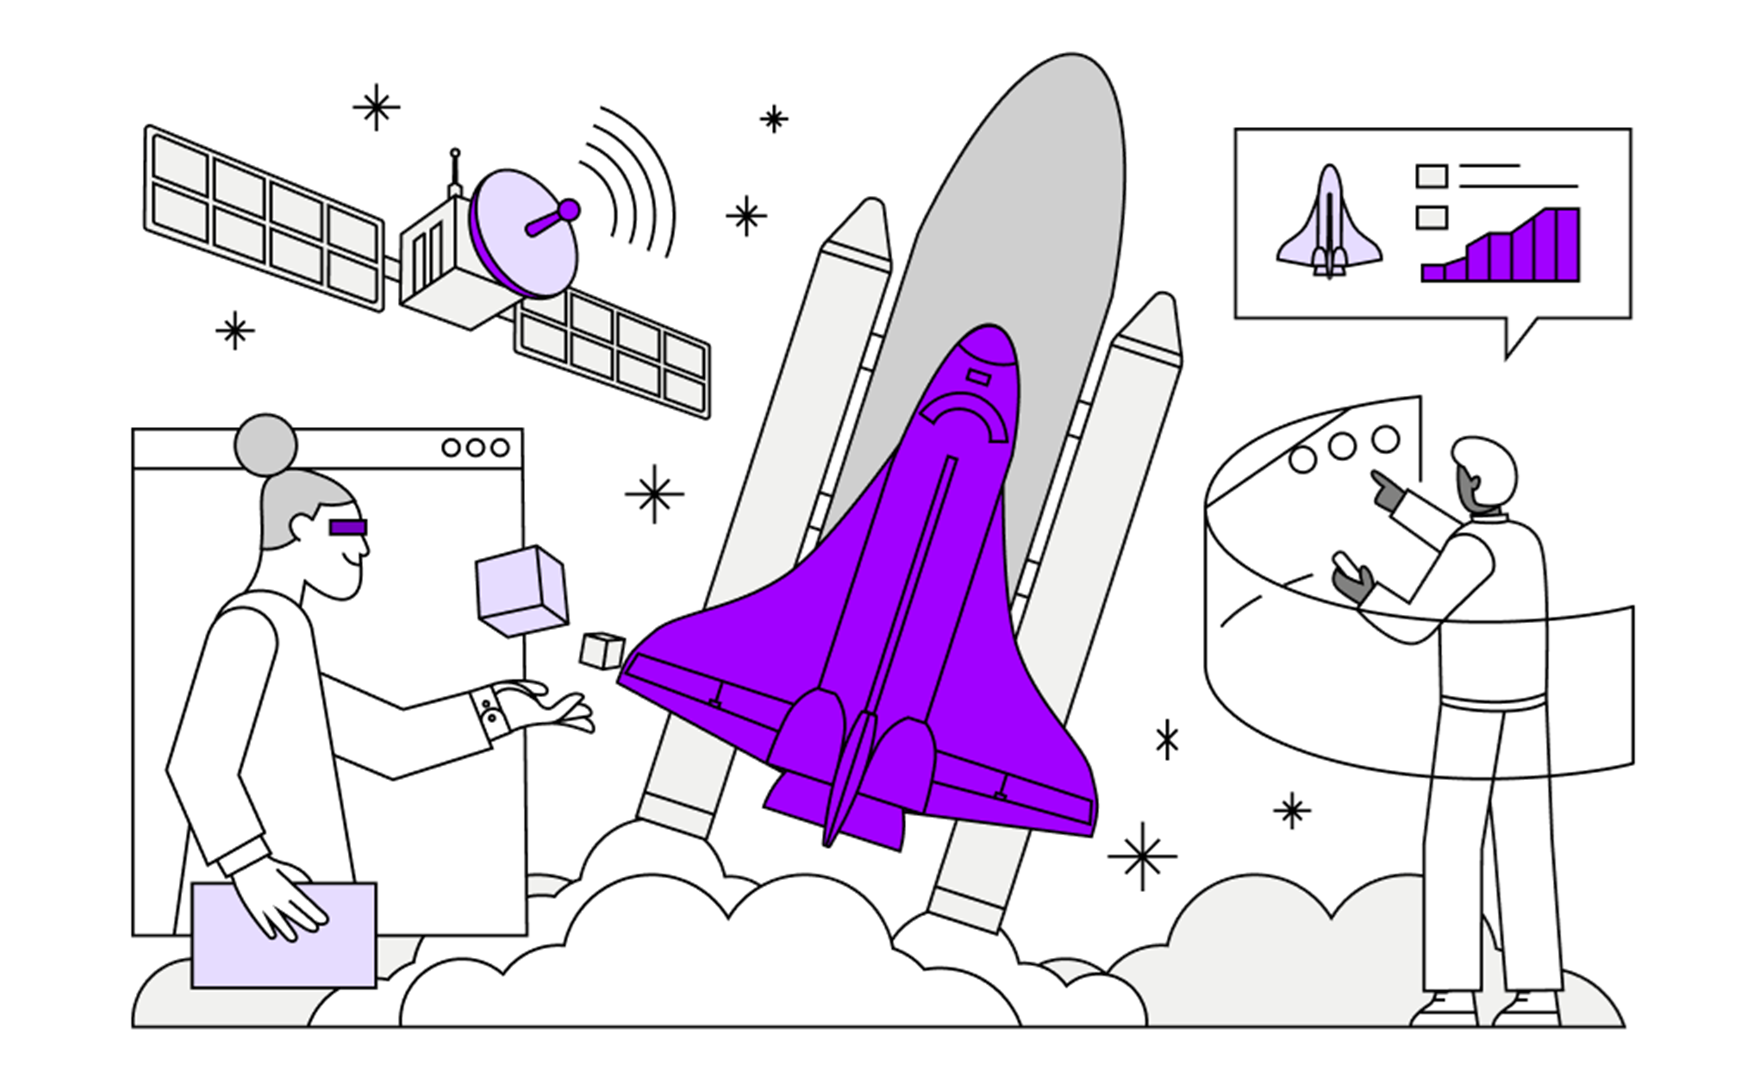
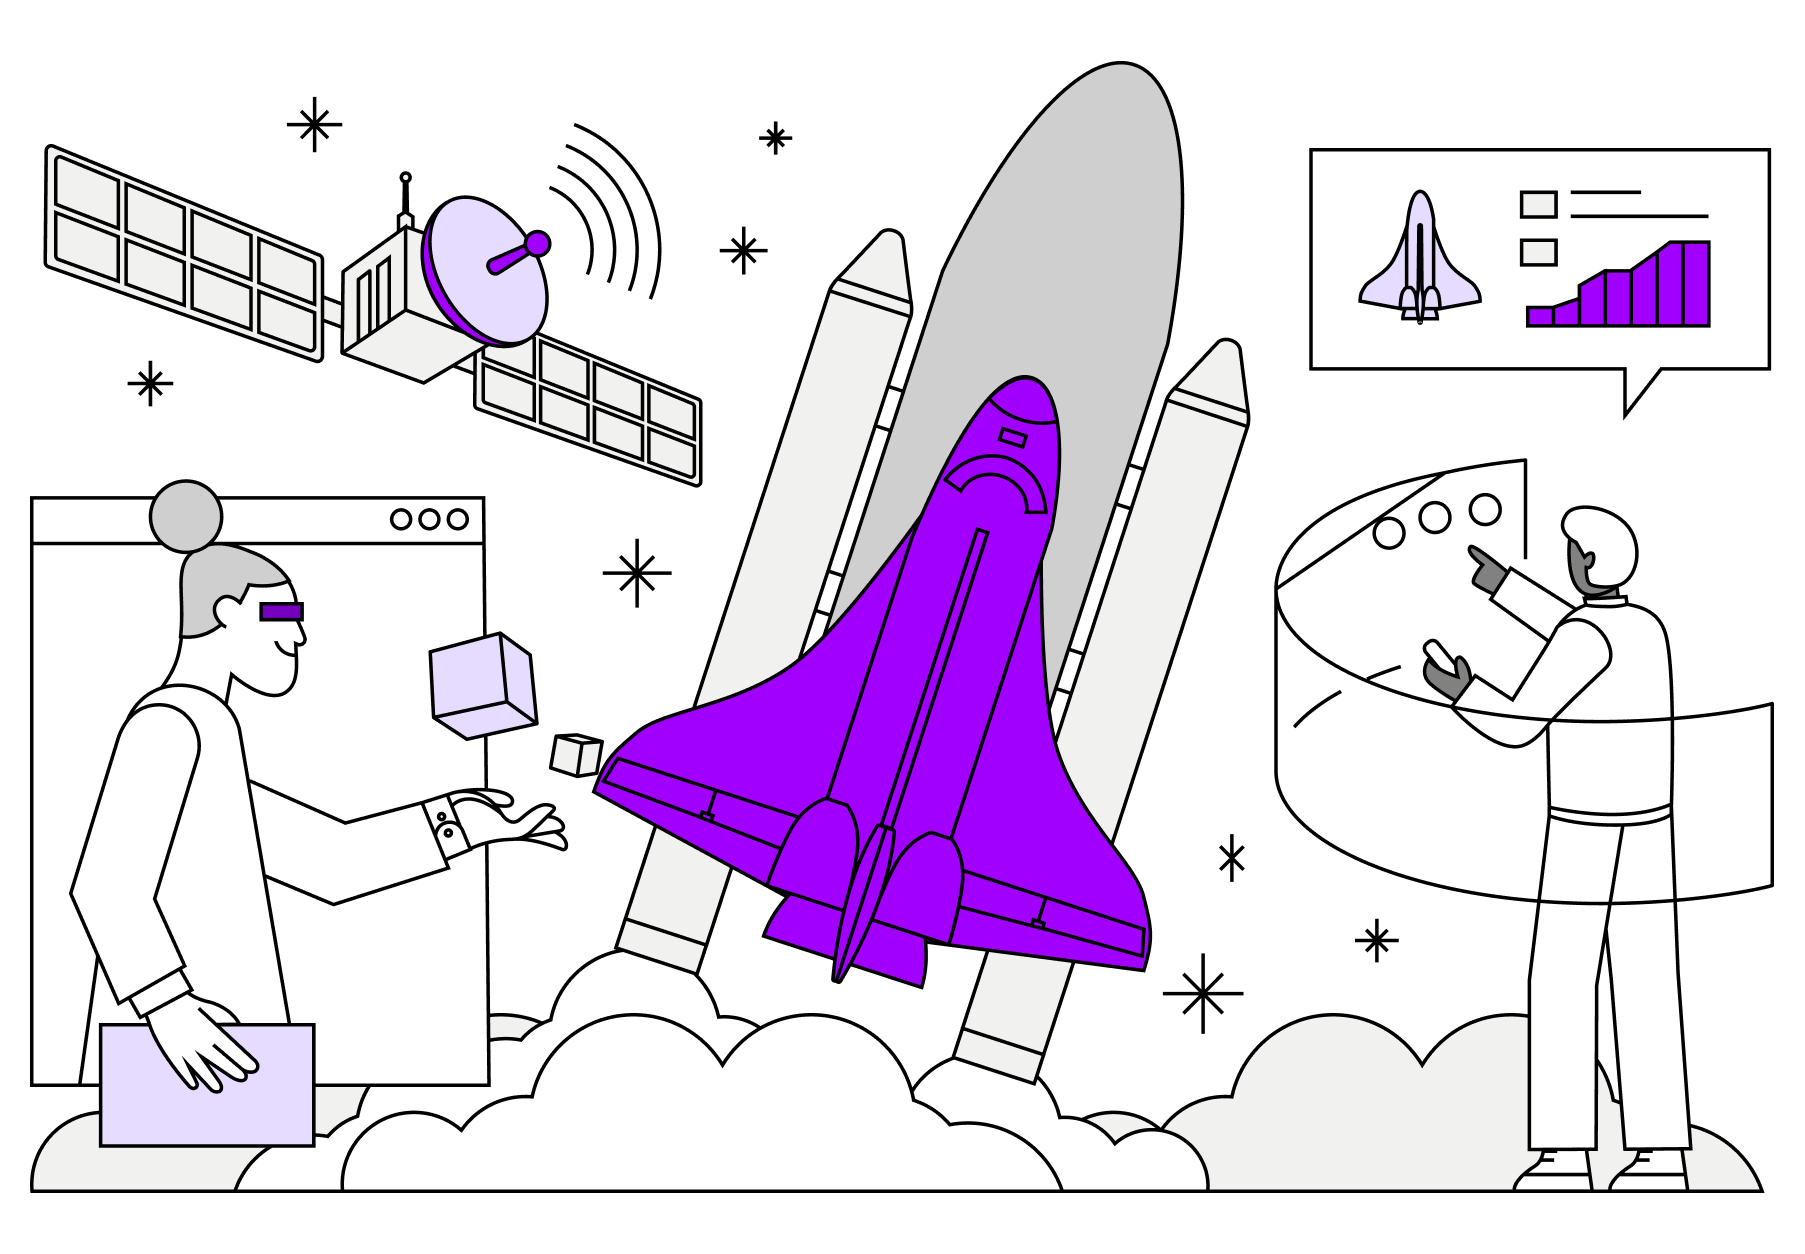
update contact page small changes

diff --git a/src/app/song-bench/my-journey/task/my-update-contact/my-update-contact.html b/src/app/song-bench/my-journey/task/my-update-contact/my-update-contact.html
@@ -28,7 +28,7 @@
       <div class="btn-wrapper">
         <!-- Not yet completed: show both buttons -->
         <ng-container *ngIf="!isCompleted">
-          <button class="later-btn" (click)="goBack()">Back</button>
+          <button class="later-btn" (click)="goBack()">Complete Later</button>
           <button class="complete-btn" (click)="goBack()">Complete Task &rarr;</button>
         </ng-container>
 
@@ -48,8 +48,9 @@
       <div class="step-card">
         <div class="step-label">Step 1</div>
         <p>Bench Resources Contact Details.xslx and fill up all relevant fields.</p>
-        <a href="https://ts.accenture.com/:x:/s/InteractiveBench/Ea8eyvc-Nz9Jp4VZXt7BJC0BQphNTKjF7J1OAkX3wWLOsQ?e=CMYbAo." target="_blank" class="step-link">
-          <span class="link-icon">&#x1F5D7;</span> Bench Resources Contact Details
+        <a class="step-link" href="https://ts.accenture.com/:x:/s/InteractiveBench/Ea8eyvc-Nz9Jp4VZXt7BJC0BQphNTKjF7J1OAkX3wWLOsQ?e=CMYbAo." target="_blank" (click)="$event.stopPropagation()">
+          <img src="assets/icons/Launch_External_Link.png" class="link-icon">
+          <span >Bench Resources Contact Details</span>
         </a>
       </div>
 

diff --git a/src/app/song-bench/my-journey/task/my-update-contact/my-update-contact.css b/src/app/song-bench/my-journey/task/my-update-contact/my-update-contact.css
@@ -196,7 +196,7 @@ body {
 .step-card {
   background: #fff;
   color: #111;
-  border-radius: 8px;
+  border-radius: 0;
   padding: 18px 20px;
   box-shadow: 0 2px 10px rgba(0, 0, 0, 0.25);
 }
@@ -223,21 +223,22 @@ body {
 .step-link {
   display: inline-flex;
   align-items: center;
-  gap: 5px;
-  font-size: 15px;
+  gap: 6px;
+  font-size: 13px;
   font-weight: 600;
-  color: #7c00d9;
+  color: #224bff;
   text-decoration: none;
-  border-bottom: 1px solid transparent;
-  transition: border-color 0.2s;
 }
 
 .step-link:hover {
-  border-bottom-color: #7c00d9;
+  text-decoration: underline;
+  border-bottom-color: #224bff;
 }
 
 .link-icon {
-  font-size: 13px;
+  width: 16px;
+  height: 16px;
+  margin-right: 2px;
 }
 
 /* ── Responsive ─────────────────────────────────────────────── */
